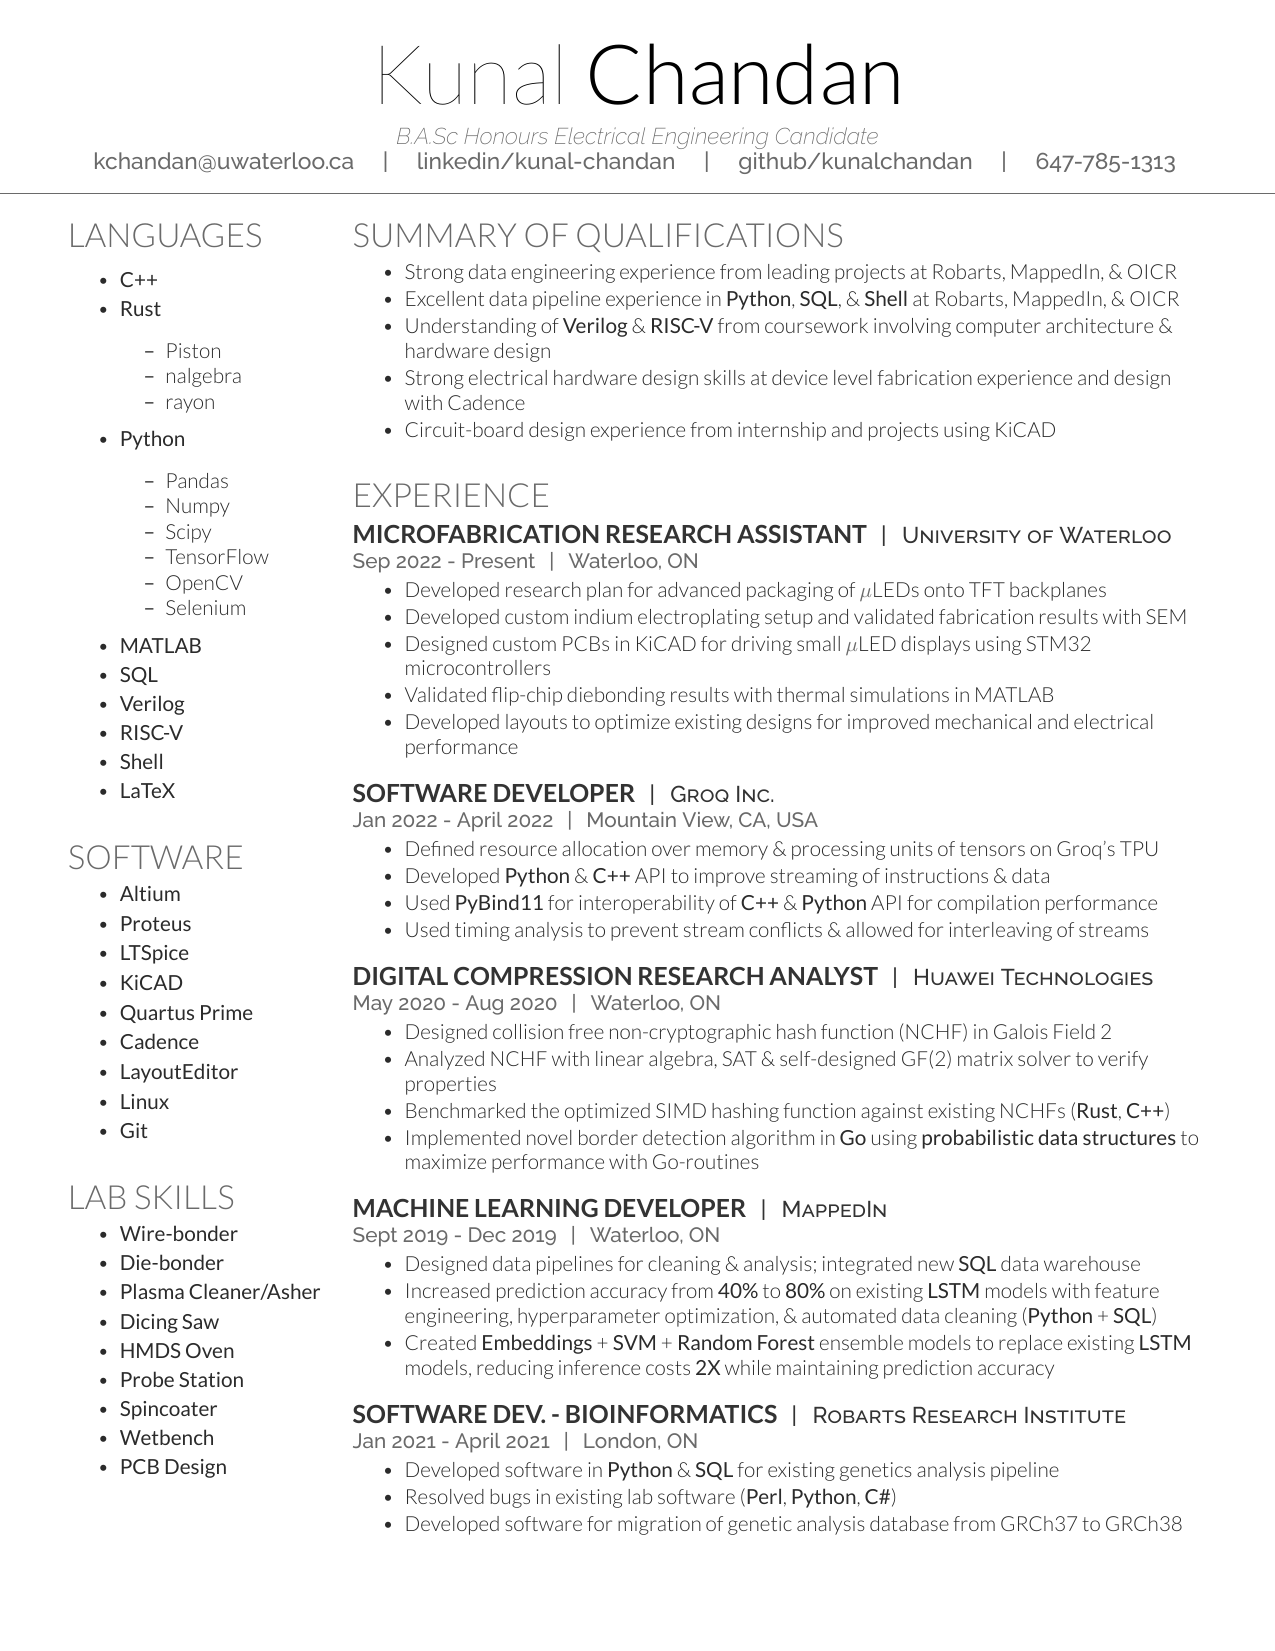
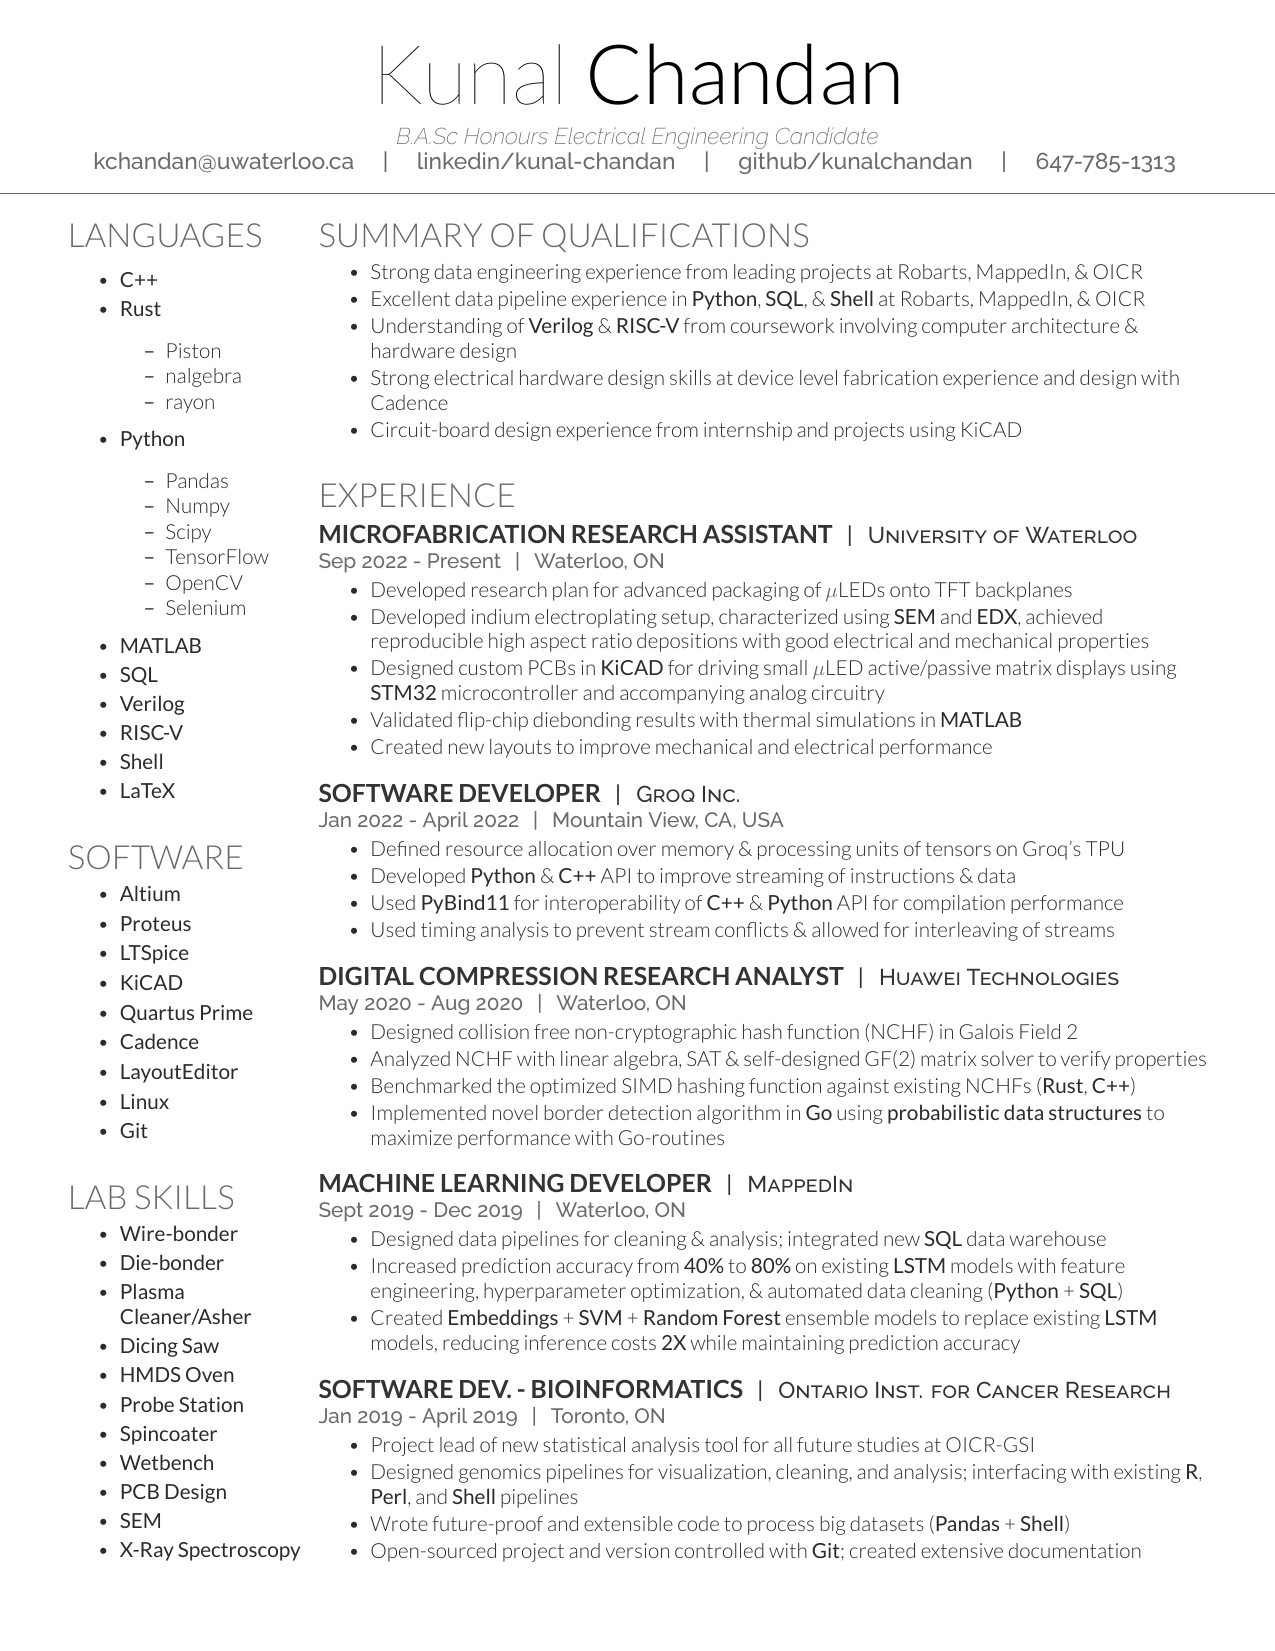
Made content changes

Changed region(s): [[0.2447, 0.1236, 0.9176, 0.9576], [0.0918, 0.7723, 0.2447, 0.9576], [0.8565, 0.9267, 0.8871, 0.9576]]

diff --git a/Resume/Resume-Clean/chandan.tex b/Resume/Resume-Clean/chandan.tex
@@ -47,7 +47,7 @@
 %
 %%%%%%%%%%%%%%%%%%%%%%%%%%%%%%%%%%%%%%
 
-\begin{minipage}[t]{0.23\textwidth}
+\begin{minipage}[t]{0.21\textwidth}
 
 %%%%%%%%%%%%%%%%%%%%%%%%%%%%%%%%%%%%%%
 %     SKILLS
@@ -116,6 +116,8 @@
 		\item \textbf{Spincoater}
 		\item \textbf{Wetbench}
 		\item \textbf{PCB Design}
+		\item \textbf{SEM}
+		\item \textbf{X-Ray Spectroscopy}
 	\end{itemize}
 
 \sectionsep
@@ -133,7 +135,7 @@
 
 \end{minipage}
 \hfill
-\begin{minipage}[t]{0.75\textwidth}
+\begin{minipage}[t]{0.78\textwidth}
 
 %%%%%%%%%%%%%%%%%%%%%%%%%%%%%%%%%%%%%%
 %     Summary of Qualifications
@@ -165,11 +167,11 @@
 \location{Sep 2022 - Present \, | \, Waterloo, ON}
 \begin{tightemize}
         \item Developed research plan for advanced packaging of $\mu$LEDs onto TFT backplanes
-		\item Developed custom indium electroplating setup and validated fabrication results with SEM
+		\item Developed indium electroplating setup, characterized using \textbf{SEM} and \textbf{EDX}, achieved reproducible high aspect ratio depositions with good electrical and mechanical properties 
 		% \item ** Developed other characterization setups for LEDs as necessary with Fusion360
-		\item Designed custom PCBs in KiCAD for driving small $\mu$LED displays using STM32 microcontrollers
-		\item Validated flip-chip diebonding results with thermal simulations in MATLAB
-		\item Developed layouts to optimize existing designs for improved mechanical and electrical performance
+		\item Designed custom PCBs in \textbf{KiCAD} for driving small $\mu$LED active/passive matrix displays using \textbf{STM32} microcontroller and accompanying analog circuitry
+		\item Validated flip-chip diebonding results with thermal simulations in \textbf{MATLAB}
+		\item Created new layouts to improve mechanical and electrical performance 
 \end{tightemize}
 \sectionsep
 
@@ -208,23 +210,7 @@
 \sectionsep
 
 \runsubsection{Software Dev. - Bioinformatics}
-\descript{| \, Robarts Research Institute}
-\location{Jan 2021 - April 2021 \, | \, London, ON}
-\begin{tightemize}
-	\item Developed software in \textbf{Python} \& \textbf{SQL} for existing genetics analysis pipeline 
-	\item Resolved bugs in existing lab software (\textbf{Perl}, \textbf{Python}, \textbf{C\#})
-	\item Developed software for migration of genetic analysis database from GRCh37 to GRCh38
-\end{tightemize}
-\sectionsep
-
-
-\end{minipage}
-
-\newpage
-
-\begin{minipage}[t]{0.77\textwidth}
-\runsubsection{Software Dev. - Bioinformatics}
-\descript{| \, Ontario Institute for Cancer Research}
+\descript{| \, Ontario Inst. for Cancer Research}
 \location{Jan 2019 - April 2019 \, | \, Toronto, ON}
 \begin{tightemize}
 	\item Project lead of new statistical analysis tool for all future studies at OICR-GSI
@@ -232,6 +218,21 @@
 	interfacing with existing \textbf{R}, \textbf{Perl}, and \textbf{Shell} pipelines
 	\item Wrote future-proof and extensible code to process big datasets (\textbf{Pandas} + \textbf{Shell})
 	\item Open-sourced project and version controlled with \textbf{Git}; created extensive documentation
+\end{tightemize}
+\sectionsep
+\end{minipage}
+
+\newpage
+
+\begin{minipage}[t]{0.77\textwidth}
+
+\runsubsection{Software Dev. - Bioinformatics}
+\descript{| \, Robarts Research Institute}
+\location{Jan 2021 - April 2021 \, | \, London, ON}
+\begin{tightemize}
+	\item Developed software in \textbf{Python} \& \textbf{SQL} for existing genetics analysis pipeline 
+	\item Resolved bugs in existing lab software (\textbf{Perl}, \textbf{Python}, \textbf{C\#})
+	\item Developed software for migration of genetic analysis database from GRCh37 to GRCh38
 \end{tightemize}
 \sectionsep
 
@@ -257,9 +258,9 @@
 \descript{ }
 \location{ }
 \begin{tightemize}
-	\item Designed 5-stage pipelined RISC-V 32-bit core in Verilog
+	\item Designed 5-stage pipelined \textbf{RISC-V} 32-bit core in \textbf{Verilog}
 	\item Implemented pipelined datapath and handled control and data hazards to minimize stalling
-	\item Core able to run complete programs and synthesized on FPGA
+	\item Core synthesizable on FPGA and successfully run simple programs 
 \end{tightemize}
 \sectionsep
 
@@ -269,8 +270,8 @@
 \location{ }
 \begin{tightemize}
 	\item Designed analog filters using active circuits for bandpassing human voice
-	\item designed multichannel microphone array to pass analog data over USB-HS on custom PCB designed in KiCAD
-	\item improved ML models for real-time beamforming and voice isolation, inference time improved 5x while maintaining performance
+	\item designed multichannel microphone array to pass analog data over \textbf{USB-HS} on custom PCB designed in \textbf{KiCAD}
+	\item improved ML models for real-time beamforming and voice isolation, inference time improved \textbf{5x} while maintaining performance
 \end{tightemize}
 \sectionsep
 
